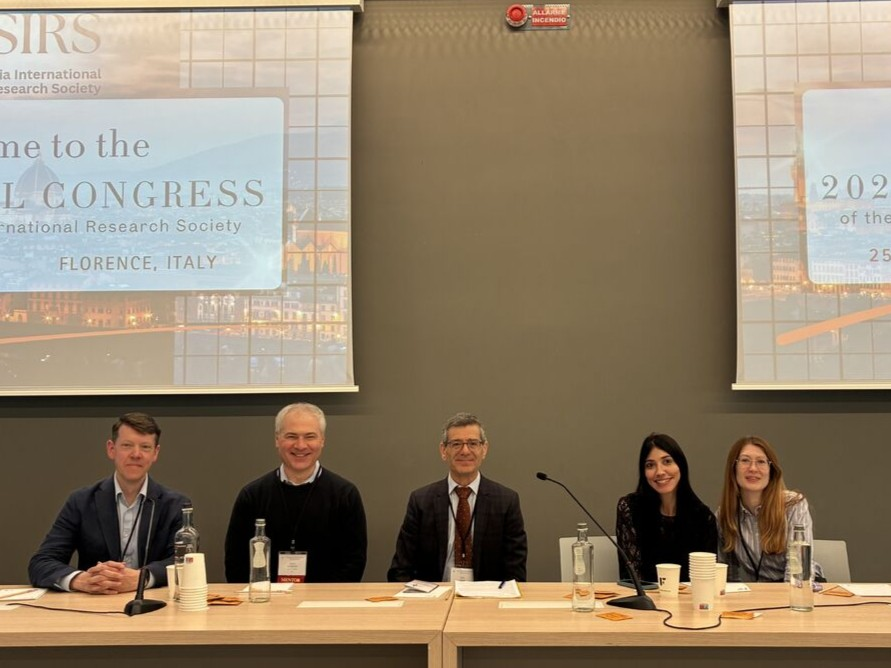
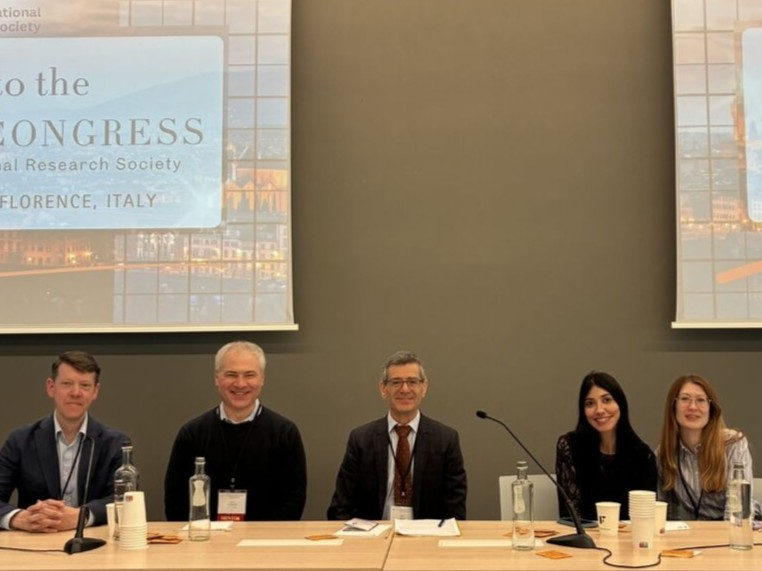
image zoom

diff --git a/docs/publications.html b/docs/publications.html
@@ -159,7 +159,7 @@ ul.task-list li input[type="checkbox"] {
 </section>
 <section id="all-publications" class="level2">
 <h2 class="anchored" data-anchor-id="all-publications">All publications</h2>
-<div id="21515439" class="cell" data-execution_count="1">
+<div id="e328dcc9" class="cell" data-execution_count="1">
 <div class="cell-output cell-output-display cell-output-markdown">
 <div class="publication">
 <p><strong>The association between childhood Toxoplasma gondii, psychotic experiences and grey matter volume: A population-based cohort study</strong></p>
